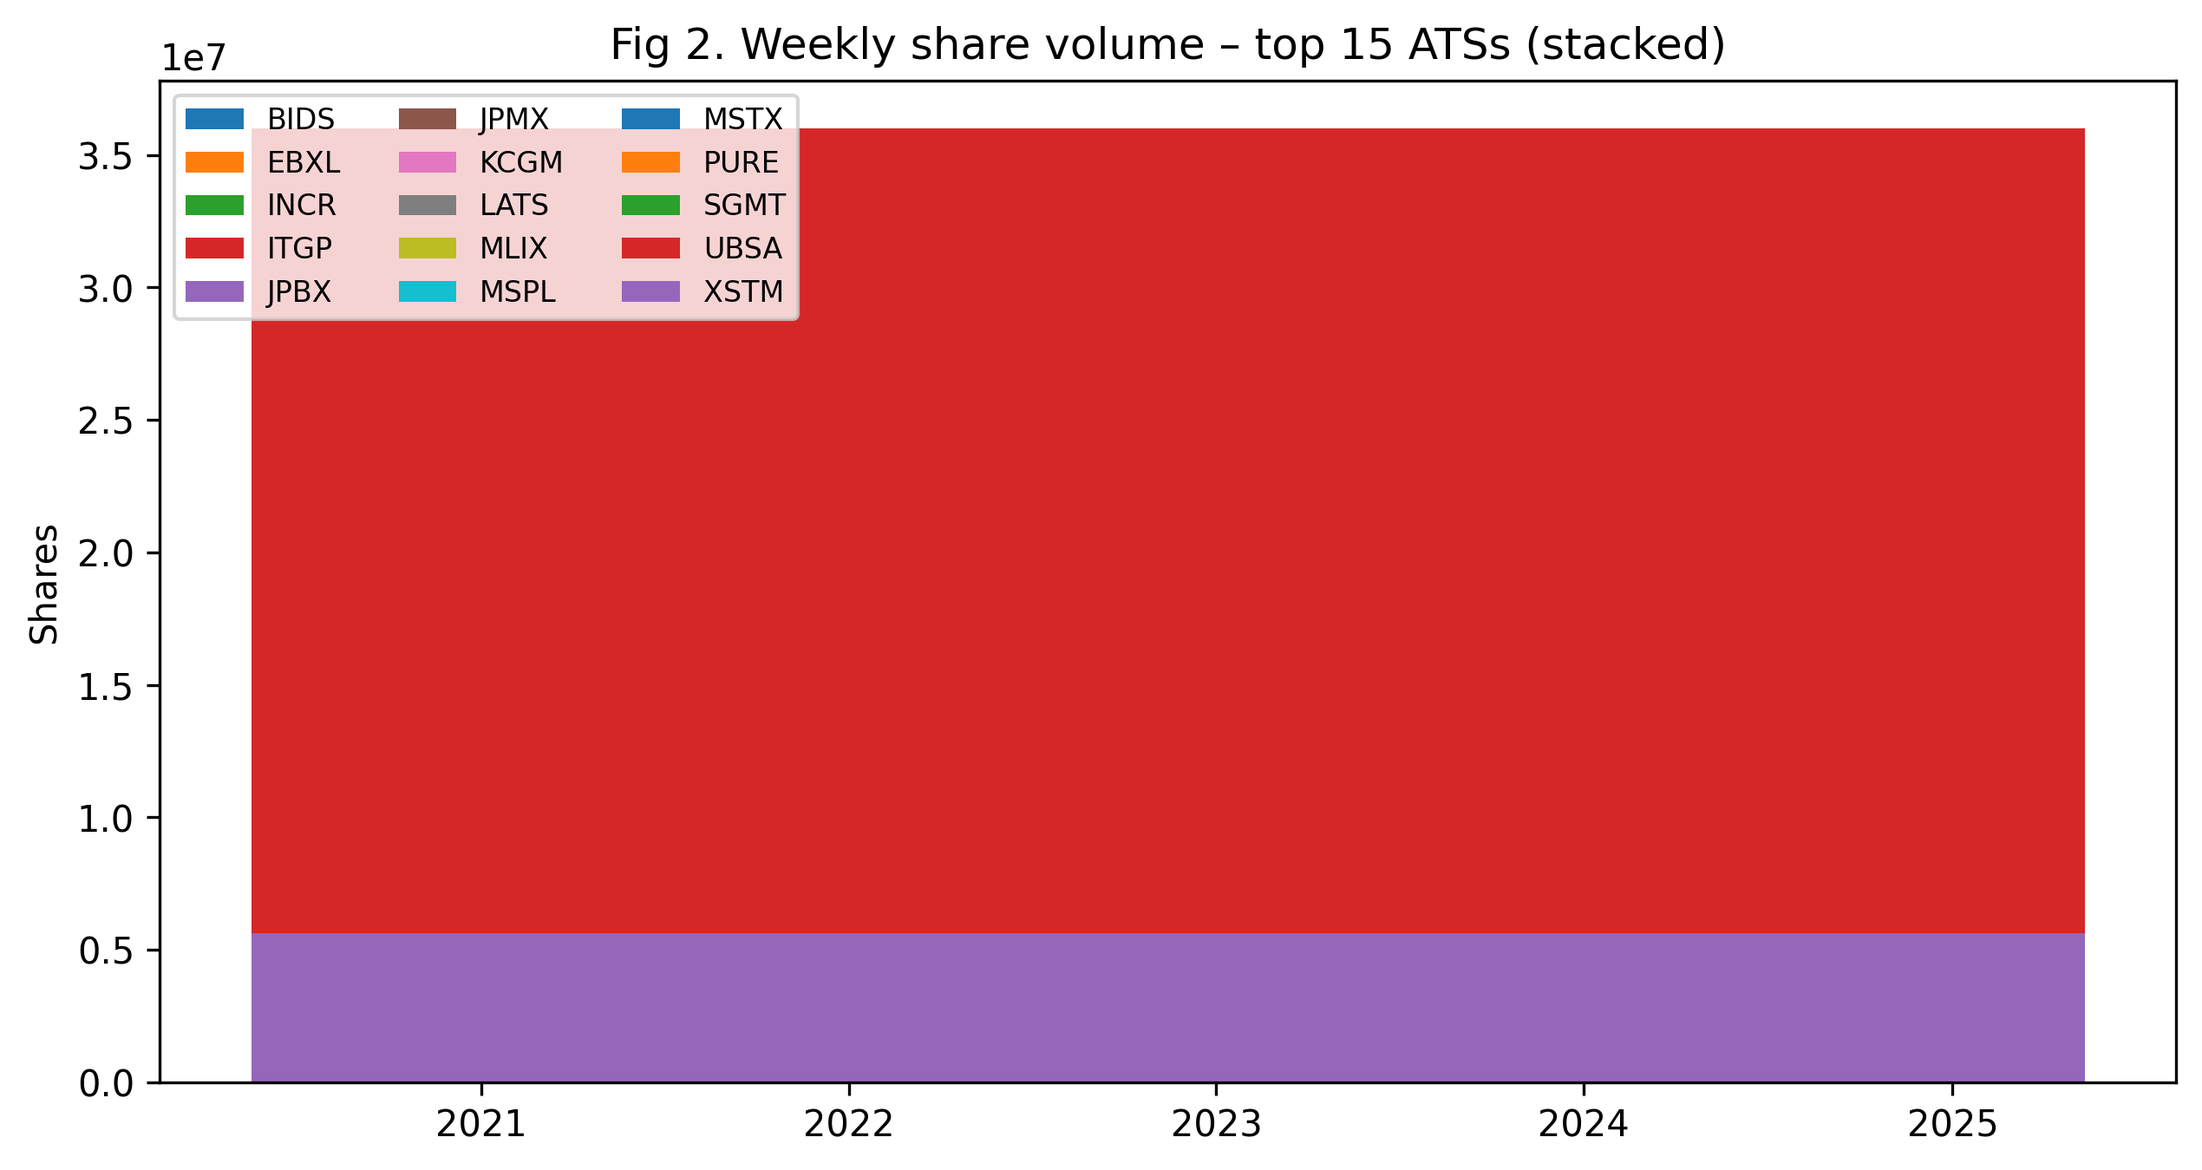
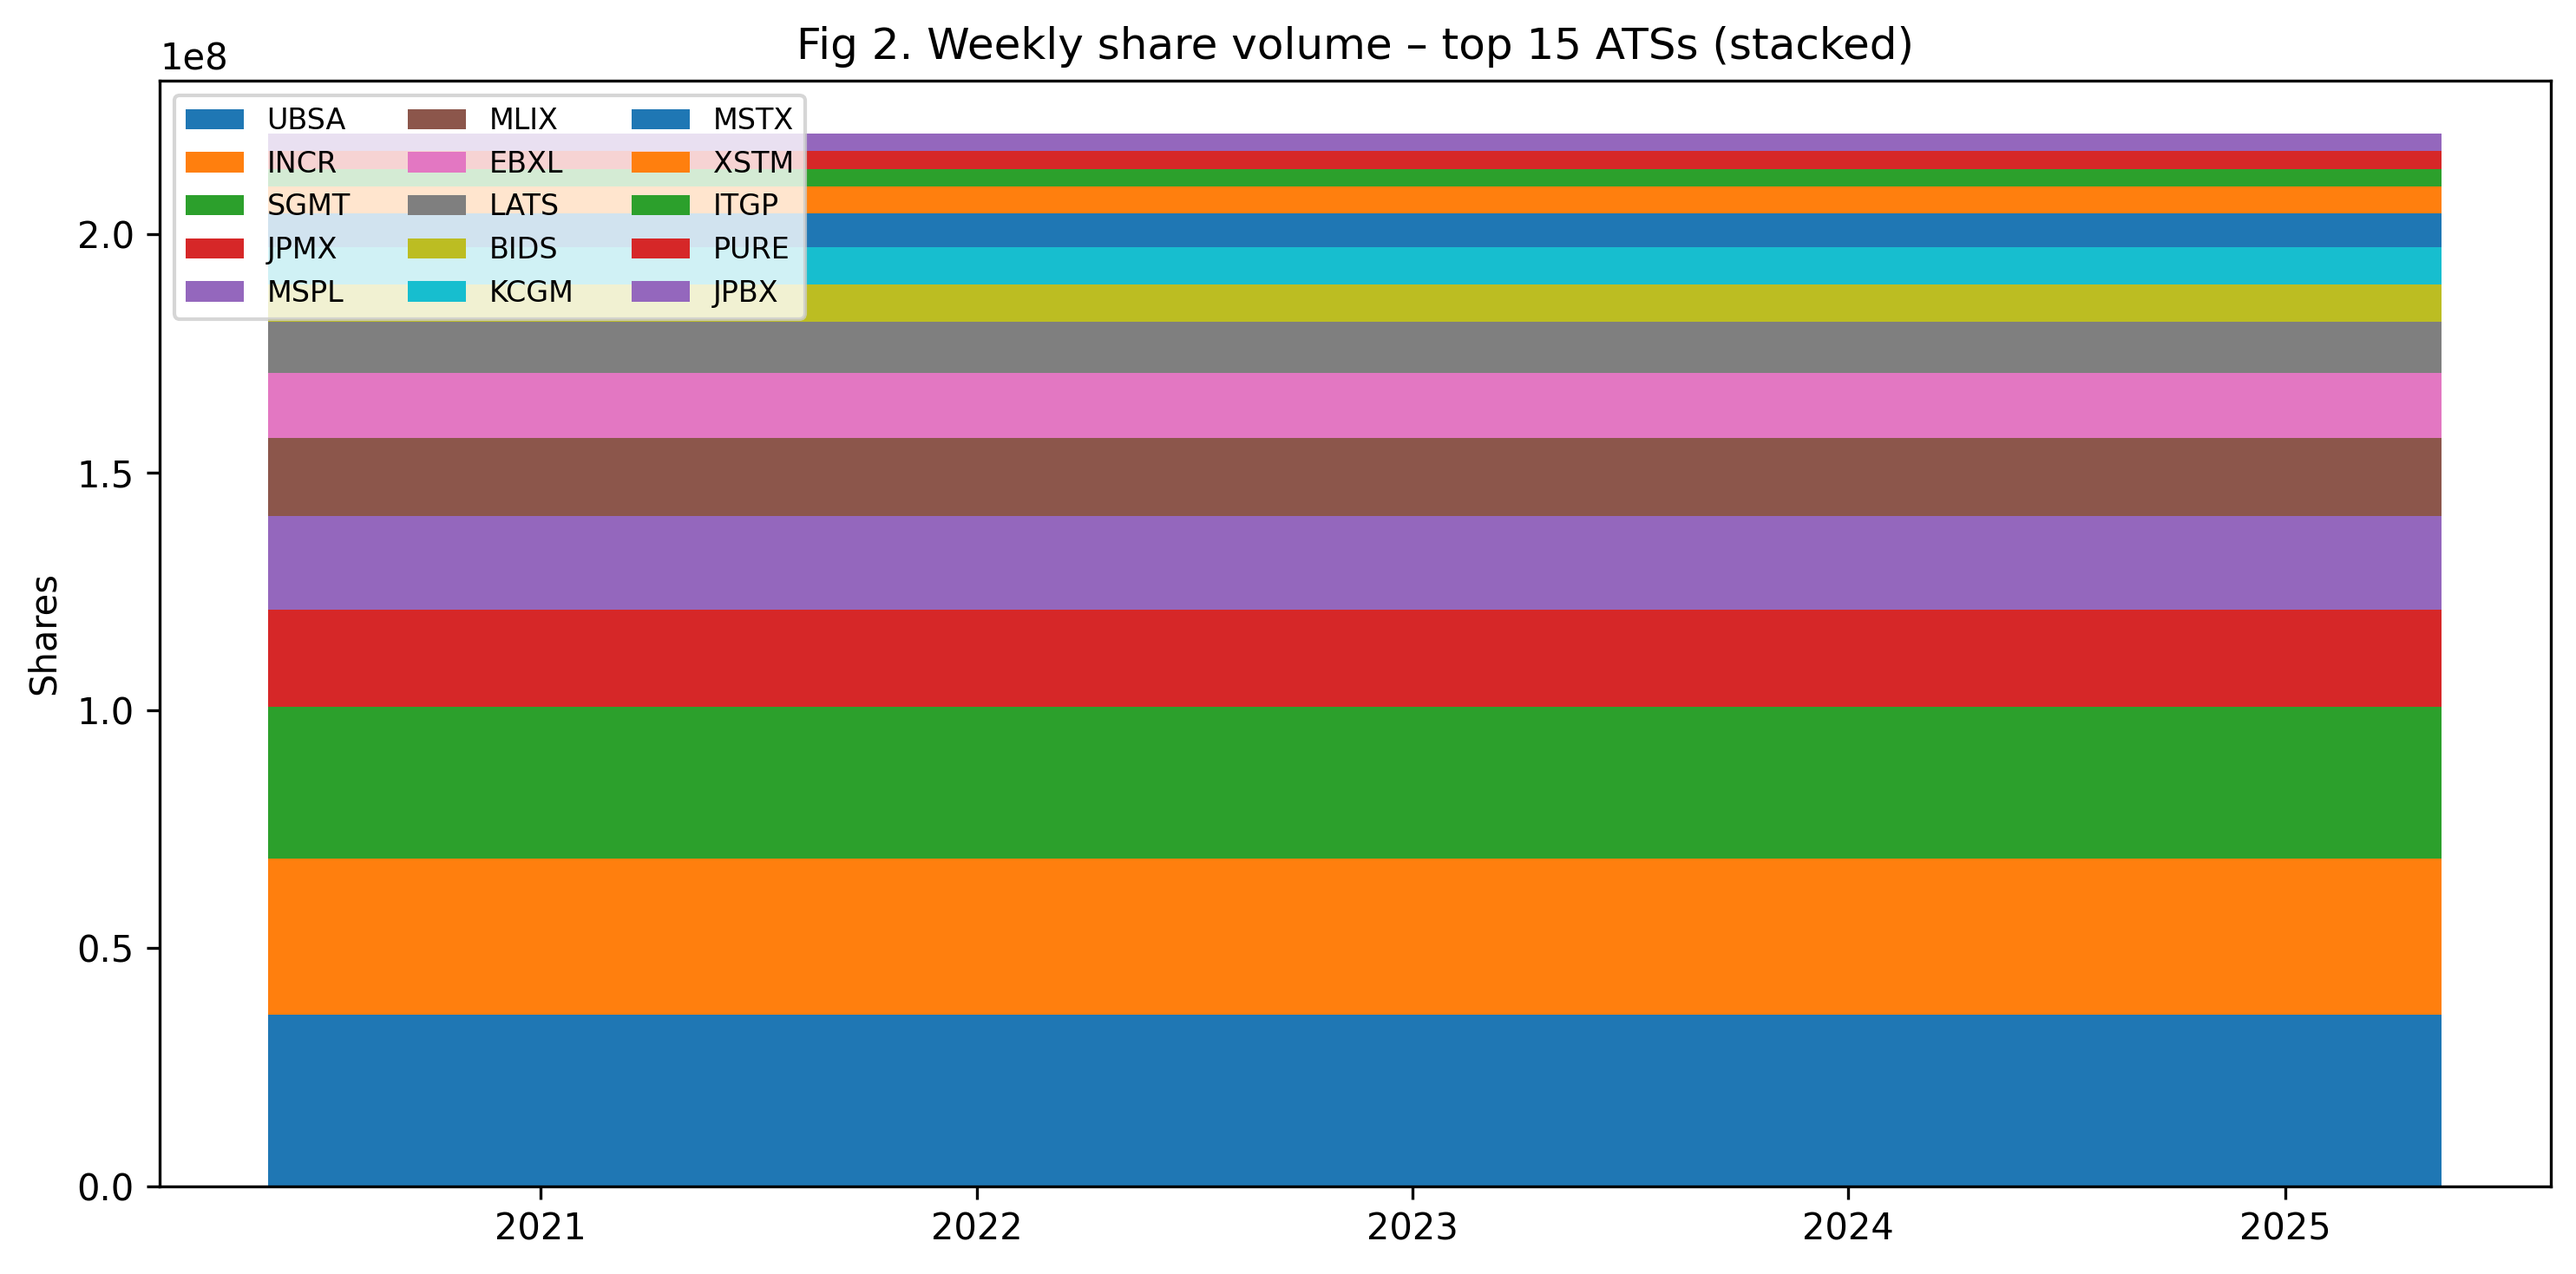
fix plot

diff --git a/batch_runner.py b/batch_runner.py
@@ -102,42 +102,69 @@ wk      = pd.read_csv(WEEKLY_VOL, parse_dates=["weekStartDate"])
 top15   = (wk.groupby("MPID")["shares"].sum()
               .sort_values(ascending=False).head(15).index.tolist())
 wk_top  = wk[wk["MPID"].isin(top15)]
+# --- Pivot weekly data: rows = weeks, cols = MPIDs ---------------------
+pivot = (wk_top.pivot_table(index="weekStartDate", columns="MPID", values="shares", fill_value=0)
+               .sort_index())
 
-fig2, ax = plt.subplots(figsize=(10,5))
-for mpid, grp in wk_top.groupby("MPID"):
-    ax.stackplot(grp["weekStartDate"], grp["shares"],
-                 labels=[mpid], baseline="zero" )
+# Optional: sort MPIDs by total volume for better layering (fat pools at bottom)
+pivot = pivot[pivot.sum().sort_values(ascending=False).index]
+
+x = pd.to_datetime(pivot.index)
+y = pivot.T.values  # shape: (n_mpid, n_weeks)
+
+fig2, ax = plt.subplots(figsize=(10, 5))
+ax.stackplot(x, y, labels=pivot.columns)
 ax.set_title("Fig 2. Weekly share volume – top 15 ATSs (stacked)")
 ax.set_ylabel("Shares")
 ax.legend(loc="upper left", ncol=3, fontsize=8)
+ax.ticklabel_format(axis="y", style="sci", scilimits=(0, 0))  # nice axis scale
+fig2.tight_layout()
 fig2.savefig(FIG_DIR / "fig2_stacked_area.png", dpi=300, bbox_inches="tight")
 plt.close(fig2)
+
 
 # ---------------------------------------------------------
 # 3.  FIGURE 3  – Annual volume vs. key binary feature
 #                 (latest year only)
 # ---------------------------------------------------------
 ann = pd.read_csv(ANNUAL_VOL, delimiter=",", engine="python")
-print(ann.columns)
 latest_year = ann["year"].max()
 ann_latest  = ann[ann["year"] == latest_year]
 
 merged = (ann_latest.merge(bin_df[bin_df["year"] == latest_year],
                            left_on="MPID", right_on="ats_id"))
+FEATURE = "offers_hosted_pool"
+merged.sort_values(FEATURE, ascending=False, inplace=True)
 
-FEATURE = "offers_hosted_pool"          # highlight segmentation logic here
-g_yes   = merged[merged[FEATURE]==1]
-g_no    = merged[merged[FEATURE]==0]
+x_all = np.arange(len(merged))  # index for each ATS
+w     = 0.4
 
-fig3, ax = plt.subplots(figsize=(6,4))
-ax.bar(g_yes["MPID"], g_yes["annual_shares"], label="Hosted pool = 1")
-ax.bar(g_no["MPID"], g_no["annual_shares"], bottom=0, label="Hosted pool = 0")
+fig3, ax = plt.subplots(figsize=(8, 4))
+
+# --- Hosted Pool = 1 group ---
+mask_yes = merged[FEATURE] == 1
+x_yes    = x_all[mask_yes]
+h_yes    = merged.loc[mask_yes, "annual_shares"]
+ax.bar(x_yes - w/2, h_yes, width=w, label="Hosted pool = 1")
+
+# --- Hosted Pool = 0 group ---
+mask_no = ~mask_yes
+x_no    = x_all[mask_no]
+h_no    = merged.loc[mask_no, "annual_shares"]
+ax.bar(x_no + w/2, h_no, width=w, label="Hosted pool = 0")
+
+# --- Axis / Legend ---
+ax.set_xticks(x_all)
+ax.set_xticklabels(merged["MPID"], rotation=45, ha="right")
 ax.set_title(f"Fig 3. {latest_year} annual volume by hosted-pool flag")
 ax.set_ylabel("Shares")
-ax.set_xticklabels(merged["MPID"], rotation=45, ha="right")
+ax.ticklabel_format(axis="y", style="sci", scilimits=(0, 0))
 ax.legend()
-fig3.savefig(FIG_DIR / "fig3_volume_vs_features.png", dpi=300,
-             bbox_inches="tight"); plt.close(fig3)
+fig3.tight_layout()
+fig3.savefig(FIG_DIR / "fig3_volume_vs_features.png", dpi=300, bbox_inches="tight")
+plt.close(fig3)
+
+
 
 # ---------------------------------------------------------
 # 4.  FIGURE 4  – Heat-map of feature adoption (balanced panel)
